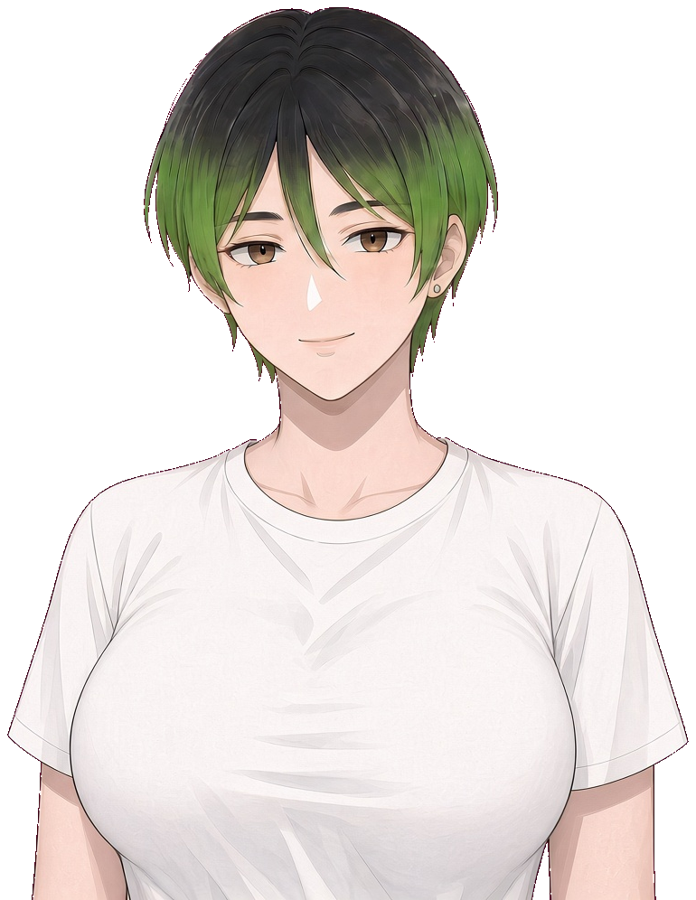
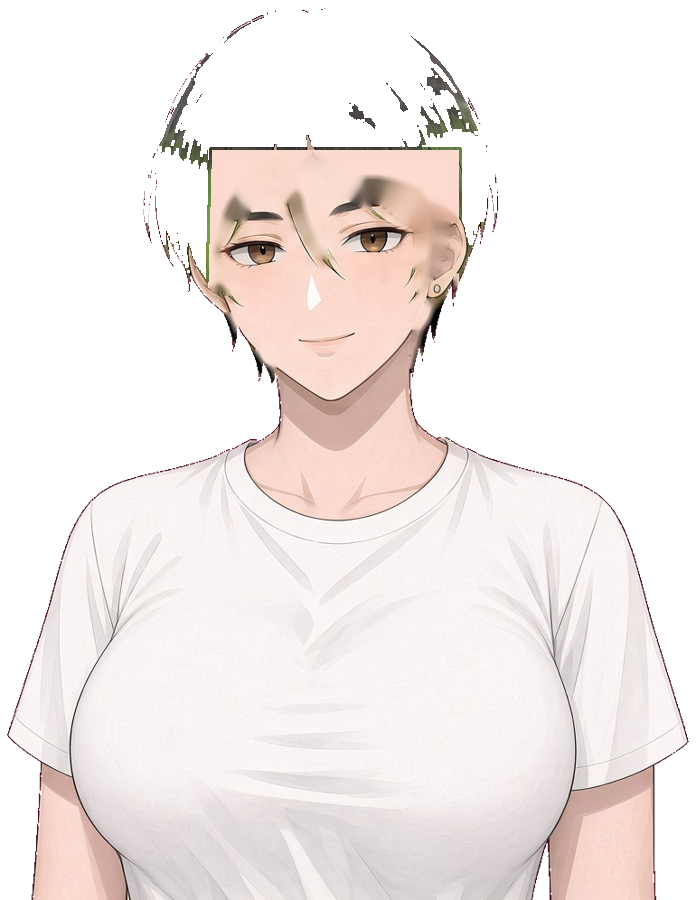
Himari live test v2: hair layers, 3-step blink, 3 mouth shapes

Changed region(s): [[0.181, 0.0, 0.7241, 0.4044], [0.3621, 0.3733, 0.3922, 0.4356]]

diff --git a/live2d-test/index.html b/live2d-test/index.html
@@ -1,71 +1,61 @@
 <!doctype html><html><head><meta charset="utf-8"><meta name="viewport" content="width=device-width,initial-scale=1,viewport-fit=cover">
-<meta name="robots" content="noindex"><title>Himari live test</title>
+<meta name="robots" content="noindex"><title>Himari live test v2</title>
 <style>html,body{margin:0;height:100%;background:linear-gradient(#2b2f3a,#151821);overflow:hidden;font-family:system-ui,sans-serif}
 #box{position:fixed;left:4%;right:4%;bottom:4%;background:rgba(10,12,20,.82);color:#f3eef0;border:1px solid #6b7a5a;border-radius:12px;padding:12px 16px;min-height:3.2em;font-size:17px}
 #box b{color:#9fd36b;display:block;font-size:14px;margin-bottom:4px}
 #ctl{position:fixed;top:12px;right:12px;display:flex;gap:8px}button{font-size:15px;padding:8px 14px;border-radius:8px;border:0;background:#6b9a3a;color:#fff}
-</style></head><body>
-<div id="ctl"><button id="talk">Talk</button><button id="still">Static</button></div>
+#ver{position:fixed;top:16px;left:12px;color:#8a93a6;font-size:12px}</style></head><body>
+<div id="ver">live test v2</div><div id="ctl"><button id="talk">Talk</button><button id="still">Static</button></div>
 <div id="box"><b>Himari</b><span id="txt"></span></div>
 <script src="pixi.min.js"></script>
 <script>
 (async()=>{
-const W=696,H=900, W8=await (await fetch('weights.json')).json();
+const W=696,H=900;const WT=await (await fetch('weights.json')).json(),AN=await (await fetch('anchors.json')).json();
 const app=new PIXI.Application({resizeTo:window,backgroundAlpha:0,antialias:true,resolution:Math.min(devicePixelRatio,2),autoDensity:true});
 document.body.prepend(app.view);
-const [tb,te,tm]=await Promise.all(['body.png','eyes_closed.png','mouth_open.png'].map(u=>PIXI.Assets.load(u)));
+const T={};for(const n of ['back','body','front','eyes_half','eyes_closed','mouth_small','mouth_wide'])T[n]=await PIXI.Assets.load(n+'.png');
 const root=new PIXI.Container();app.stage.addChild(root);
-const plane=new PIXI.SimplePlane(tb,W8.gx,W8.gy);root.addChild(plane);
-const eyes=new PIXI.Sprite(te),mouth=new PIXI.Sprite(tm);
-eyes.anchor.set(.5);mouth.anchor.set(.5);root.addChild(eyes,mouth);
-const EYE={x:200+te.width/2,y:200+te.height/2},MOU={x:287+tm.width/2,y:331+tm.height/2};
-eyes.alpha=0;mouth.alpha=0;
-const buf=plane.geometry.getBuffer('aVertexPosition'),base=Float32Array.from(buf.data);
+function mesh(tex,wkey){const m=new PIXI.SimplePlane(tex,WT.gx,WT.gy);const b=m.geometry.getBuffer('aVertexPosition');return{m,b,base:Float32Array.from(b.data),w:wkey?WT[wkey].flat():null,key:wkey}}
+const back=mesh(T.back,'back'),body=mesh(T.body,null),front=mesh(T.front,'front');
+const spr=(t,a)=>{const s=new PIXI.Sprite(t);s.anchor.set(.5);s.visible=false;s.home={x:a[0]+t.width/2,y:a[1]+t.height/2};return s};
+const eh=spr(T.eyes_half,AN.eyes),ec=spr(T.eyes_closed,AN.eyes),ms=spr(T.mouth_small,AN.mouth),mw=spr(T.mouth_wide,AN.mouth);
+root.addChild(back.m,body.m,eh,ec,ms,mw,front.m);
 const sm=(a,b,x)=>{x=Math.min(1,Math.max(0,(x-a)/(b-a)));return x*x*(3-2*x)};
-let still=false;
-function deform(x,y,t,hw){
+let still=false;const TAU=Math.PI*2;
+function deform(x,y,t,w,layer){
   if(still)return[x,y,0];
-  const br=Math.sin(t*2*Math.PI/3.8);
-  const head=1-sm(395,475,y);
-  // breathing: torso stretches up from the bottom, chest widens slightly
-  let dy=-(H-Math.max(y,430))*0.0055*br - 0;
-  let dx=(x-348)*0.006*br*Math.exp(-(((y-660)/140)**2));
-  // head tilt + nod about the neck
-  const th=(0.014*Math.sin(t*2*Math.PI/6.1)+0.006*Math.sin(t*2*Math.PI/2.9+1))*head;
+  const br=Math.sin(t*TAU/3.8),head=1-sm(395,475,y);
+  let dy=-(H-Math.max(y,430))*0.0055*br, dx=(x-348)*0.006*br*Math.exp(-(((y-660)/140)**2));
+  const th=(0.013*Math.sin(t*TAU/6.1)+0.005*Math.sin(t*TAU/2.9+1))*head;
   const px=345,py=450,rx=x-px,ry=y-py;
   dx+=rx*Math.cos(th)-ry*Math.sin(th)-rx; dy+=rx*Math.sin(th)+ry*Math.cos(th)-ry;
-  dy+=head*1.2*Math.sin(t*2*Math.PI/6.1+.7);
-  // hair sway: tips move more, damped over the face
-  const face=sm(0,1,1-Math.max(Math.abs(x-318)/110,Math.abs(y-285)/85));
-  const tip=sm(120,360,y);
-  dx+=hw*(1-face*.85)*tip*(2.6*Math.sin(t*2*Math.PI/2.6-y*.012)+1.1*Math.sin(t*2*Math.PI/1.7+x*.02));
+  dy+=head*1.1*Math.sin(t*TAU/6.1+.7);
+  // head-turn illusion: face/front hair slide a touch more than back hair (parallax)
+  const turn=1.3*Math.sin(t*TAU/8.3+2)*head*sm(130,230,y);
+  dx+=turn*(layer==='front'?1.25:layer==='back'?-0.35:1);
+  if(w){ if(layer==='front') dx+=w*(1.7*Math.sin(t*TAU/2.7-y*.01)+0.7*Math.sin(t*TAU/1.9+x*.02));
+         else dx+=w*(2.4*Math.sin(t*TAU/2.7-y*.01-0.55)+0.8*Math.sin(t*TAU/1.9+x*.02-0.5)); }
   return[x+dx,y+dy,th];
 }
-function weight(i,j){return W8.hair[j][i]}
-let blinkAt=1.2,blinkT=-1;
-let talking=false,mouthT=0;
+function upd(M,t){const d=M.b.data,b=M.base;for(let i=0,k=0;k<d.length;i++,k+=2){const p=deform(b[k],b[k+1],t,M.w?M.w[i]:0,M.key||'body');d[k]=p[0];d[k+1]=p[1]}M.b.update()}
 function layout(){const s=Math.min(app.screen.height/H*1.02,app.screen.width/W*1.15);root.scale.set(s);root.x=(app.screen.width-W*s)/2;root.y=app.screen.height-H*s+H*s*.02}
-window.addEventListener('resize',layout);layout();
-const t0=performance.now();
-app.ticker.add(()=>{
-  const t=(performance.now()-t0)/1000;
-  const d=buf.data;
-  for(let j=0,k=0;j<W8.gy;j++)for(let i=0;i<W8.gx;i++,k+=2){const p=deform(base[k],base[k+1],t,weight(i,j));d[k]=p[0];d[k+1]=p[1];}
-  buf.update();
-  for(const [s,a] of [[eyes,EYE],[mouth,MOU]]){const p=deform(a.x,a.y,t,0);s.position.set(p[0],p[1]);s.rotation=p[2];}
-  // blink: quick close, short hold, slower open; occasional double blink
-  if(t>blinkAt&&blinkT<0){blinkT=t}
-  if(blinkT>=0){const u=t-blinkT;eyes.alpha=u<.12?1:0;
-    if(u>.12){blinkT=-1;blinkAt=t+(Math.random()<.18?.25:2.2+Math.random()*3.5)}}
-  if(talking&&t>mouthT){mouth.alpha=mouth.alpha>.5?(Math.random()<.4?.55:0):1;mouthT=t+.07+Math.random()*.08}
-  if(!talking)mouth.alpha=Math.max(0,mouth.alpha-.25);
+addEventListener('resize',layout);layout();
+const Q=new URLSearchParams(location.search),FZ=Q.has('freeze')?+Q.get('freeze'):null;
+let blinkAt=1.0,blinkT=-1,mouth=0;const t0=performance.now();
+app.ticker.add(()=>{const t=FZ!==null?FZ:(performance.now()-t0)/1000;
+  upd(back,t);upd(body,t);upd(front,t);
+  for(const s of [eh,ec,ms,mw]){const p=deform(s.home.x,s.home.y,t,0,'body');s.position.set(p[0],p[1]);s.rotation=p[2];}
+  if(FZ===null&&t>blinkAt&&blinkT<0)blinkT=t;
+  let e=0;if(blinkT>=0){const u=t-blinkT;e=u<.035?1:u<.105?2:u<.14?1:0;if(u>=.14){blinkT=-1;blinkAt=t+(Math.random()<.18?.22:2.2+Math.random()*3.5)}}
+  if(Q.has('eye'))e=+Q.get('eye');if(Q.has('mouth'))mouth=+Q.get('mouth');
+  eh.visible=e===1;ec.visible=e===2;ms.visible=mouth===1;mw.visible=mouth===2;
 });
 const lines=["Oh — you're home. I saved you some rice, it's still warm.","Don't look at me like that. I'm just tired, okay?","Do you ever think about leaving this town? Just… going?"];let li=0,typing=null;
-function say(){clearInterval(typing);const s=lines[li++%lines.length];let n=0;const el=document.getElementById('txt');el.textContent='';talking=true;
-  typing=setInterval(()=>{n++;el.textContent=s.slice(0,n);const c=s[n-1];
-    talking=!/[.,!?…—]/.test(c||'');if(n>=s.length){clearInterval(typing);talking=false}},45)}
+function shape(c,prev){if(!c||/[\s.,!?…—'"]/.test(c))return 0;if(/[aeiouAEIOU]/.test(c))return /[aoAO]/.test(c)?2:(prev===2?1:2);return Math.random()<.55?1:0}
+function say(){clearInterval(typing);const s=lines[li++%lines.length];let n=0;const el=document.getElementById('txt');el.textContent='';
+  typing=setInterval(()=>{n++;el.textContent=s.slice(0,n);mouth=shape(s[n-1],mouth);if(n>=s.length){clearInterval(typing);setTimeout(()=>mouth=0,60)}},48)}
 document.getElementById('talk').onclick=say;
 document.getElementById('still').onclick=e=>{still=!still;e.target.textContent=still?'Live':'Static'};
-setTimeout(say,1500);
+if(!Q.has('freeze'))setTimeout(say,1400);
 })();
 </script></body></html>

diff --git a/live2d-test/test.html b/live2d-test/test.html
@@ -1,71 +1,61 @@
 <!doctype html><html><head><meta charset="utf-8"><meta name="viewport" content="width=device-width,initial-scale=1,viewport-fit=cover">
-<meta name="robots" content="noindex"><title>Himari live test</title>
+<meta name="robots" content="noindex"><title>Himari live test v2</title>
 <style>html,body{margin:0;height:100%;background:linear-gradient(#2b2f3a,#151821);overflow:hidden;font-family:system-ui,sans-serif}
 #box{position:fixed;left:4%;right:4%;bottom:4%;background:rgba(10,12,20,.82);color:#f3eef0;border:1px solid #6b7a5a;border-radius:12px;padding:12px 16px;min-height:3.2em;font-size:17px}
 #box b{color:#9fd36b;display:block;font-size:14px;margin-bottom:4px}
 #ctl{position:fixed;top:12px;right:12px;display:flex;gap:8px}button{font-size:15px;padding:8px 14px;border-radius:8px;border:0;background:#6b9a3a;color:#fff}
-</style></head><body>
-<div id="ctl"><button id="talk">Talk</button><button id="still">Static</button></div>
+#ver{position:fixed;top:16px;left:12px;color:#8a93a6;font-size:12px}</style></head><body>
+<div id="ver">live test v2</div><div id="ctl"><button id="talk">Talk</button><button id="still">Static</button></div>
 <div id="box"><b>Himari</b><span id="txt"></span></div>
 <script src="pixi.min.js"></script>
 <script>
 (async()=>{
-const W=696,H=900, W8=await (await fetch('weights.json')).json();
+const W=696,H=900;const WT=await (await fetch('weights.json')).json(),AN=await (await fetch('anchors.json')).json();
 const app=new PIXI.Application({resizeTo:window,backgroundAlpha:0,antialias:true,resolution:Math.min(devicePixelRatio,2),autoDensity:true});
 document.body.prepend(app.view);
-const [tb,te,tm]=await Promise.all(['body.png','eyes_closed.png','mouth_open.png'].map(u=>PIXI.Assets.load(u)));
+const T={};for(const n of ['back','body','front','eyes_half','eyes_closed','mouth_small','mouth_wide'])T[n]=await PIXI.Assets.load(n+'.png');
 const root=new PIXI.Container();app.stage.addChild(root);
-const plane=new PIXI.SimplePlane(tb,W8.gx,W8.gy);root.addChild(plane);
-const eyes=new PIXI.Sprite(te),mouth=new PIXI.Sprite(tm);
-eyes.anchor.set(.5);mouth.anchor.set(.5);root.addChild(eyes,mouth);
-const EYE={x:200+te.width/2,y:200+te.height/2},MOU={x:287+tm.width/2,y:331+tm.height/2};
-eyes.alpha=0;mouth.alpha=0;
-const buf=plane.geometry.getBuffer('aVertexPosition'),base=Float32Array.from(buf.data);
+function mesh(tex,wkey){const m=new PIXI.SimplePlane(tex,WT.gx,WT.gy);const b=m.geometry.getBuffer('aVertexPosition');return{m,b,base:Float32Array.from(b.data),w:wkey?WT[wkey].flat():null,key:wkey}}
+const back=mesh(T.back,'back'),body=mesh(T.body,null),front=mesh(T.front,'front');
+const spr=(t,a)=>{const s=new PIXI.Sprite(t);s.anchor.set(.5);s.visible=false;s.home={x:a[0]+t.width/2,y:a[1]+t.height/2};return s};
+const eh=spr(T.eyes_half,AN.eyes),ec=spr(T.eyes_closed,AN.eyes),ms=spr(T.mouth_small,AN.mouth),mw=spr(T.mouth_wide,AN.mouth);
+root.addChild(back.m,body.m,eh,ec,ms,mw,front.m);
 const sm=(a,b,x)=>{x=Math.min(1,Math.max(0,(x-a)/(b-a)));return x*x*(3-2*x)};
-let still=false;
-function deform(x,y,t,hw){
+let still=false;const TAU=Math.PI*2;
+function deform(x,y,t,w,layer){
   if(still)return[x,y,0];
-  const br=Math.sin(t*2*Math.PI/3.8);
-  const head=1-sm(395,475,y);
-  // breathing: torso stretches up from the bottom, chest widens slightly
-  let dy=-(H-Math.max(y,430))*0.0055*br - 0;
-  let dx=(x-348)*0.006*br*Math.exp(-(((y-660)/140)**2));
-  // head tilt + nod about the neck
-  const th=(0.014*Math.sin(t*2*Math.PI/6.1)+0.006*Math.sin(t*2*Math.PI/2.9+1))*head;
+  const br=Math.sin(t*TAU/3.8),head=1-sm(395,475,y);
+  let dy=-(H-Math.max(y,430))*0.0055*br, dx=(x-348)*0.006*br*Math.exp(-(((y-660)/140)**2));
+  const th=(0.013*Math.sin(t*TAU/6.1)+0.005*Math.sin(t*TAU/2.9+1))*head;
   const px=345,py=450,rx=x-px,ry=y-py;
   dx+=rx*Math.cos(th)-ry*Math.sin(th)-rx; dy+=rx*Math.sin(th)+ry*Math.cos(th)-ry;
-  dy+=head*1.2*Math.sin(t*2*Math.PI/6.1+.7);
-  // hair sway: tips move more, damped over the face
-  const face=sm(0,1,1-Math.max(Math.abs(x-318)/110,Math.abs(y-285)/85));
-  const tip=sm(120,360,y);
-  dx+=hw*(1-face*.85)*tip*(2.6*Math.sin(t*2*Math.PI/2.6-y*.012)+1.1*Math.sin(t*2*Math.PI/1.7+x*.02));
+  dy+=head*1.1*Math.sin(t*TAU/6.1+.7);
+  // head-turn illusion: face/front hair slide a touch more than back hair (parallax)
+  const turn=1.3*Math.sin(t*TAU/8.3+2)*head*sm(130,230,y);
+  dx+=turn*(layer==='front'?1.25:layer==='back'?-0.35:1);
+  if(w){ if(layer==='front') dx+=w*(1.7*Math.sin(t*TAU/2.7-y*.01)+0.7*Math.sin(t*TAU/1.9+x*.02));
+         else dx+=w*(2.4*Math.sin(t*TAU/2.7-y*.01-0.55)+0.8*Math.sin(t*TAU/1.9+x*.02-0.5)); }
   return[x+dx,y+dy,th];
 }
-function weight(i,j){return W8.hair[j][i]}
-let blinkAt=1.2,blinkT=-1;
-let talking=false,mouthT=0;
+function upd(M,t){const d=M.b.data,b=M.base;for(let i=0,k=0;k<d.length;i++,k+=2){const p=deform(b[k],b[k+1],t,M.w?M.w[i]:0,M.key||'body');d[k]=p[0];d[k+1]=p[1]}M.b.update()}
 function layout(){const s=Math.min(app.screen.height/H*1.02,app.screen.width/W*1.15);root.scale.set(s);root.x=(app.screen.width-W*s)/2;root.y=app.screen.height-H*s+H*s*.02}
-window.addEventListener('resize',layout);layout();
-const t0=performance.now();
-app.ticker.add(()=>{
-  const t=(performance.now()-t0)/1000;
-  const d=buf.data;
-  for(let j=0,k=0;j<W8.gy;j++)for(let i=0;i<W8.gx;i++,k+=2){const p=deform(base[k],base[k+1],t,weight(i,j));d[k]=p[0];d[k+1]=p[1];}
-  buf.update();
-  for(const [s,a] of [[eyes,EYE],[mouth,MOU]]){const p=deform(a.x,a.y,t,0);s.position.set(p[0],p[1]);s.rotation=p[2];}
-  // blink: quick close, short hold, slower open; occasional double blink
-  if(t>blinkAt&&blinkT<0){blinkT=t}
-  if(blinkT>=0){const u=t-blinkT;eyes.alpha=u<.12?1:0;
-    if(u>.12){blinkT=-1;blinkAt=t+(Math.random()<.18?.25:2.2+Math.random()*3.5)}}
-  if(talking&&t>mouthT){mouth.alpha=mouth.alpha>.5?(Math.random()<.4?.55:0):1;mouthT=t+.07+Math.random()*.08}
-  if(!talking)mouth.alpha=Math.max(0,mouth.alpha-.25);
+addEventListener('resize',layout);layout();
+const Q=new URLSearchParams(location.search),FZ=Q.has('freeze')?+Q.get('freeze'):null;
+let blinkAt=1.0,blinkT=-1,mouth=0;const t0=performance.now();
+app.ticker.add(()=>{const t=FZ!==null?FZ:(performance.now()-t0)/1000;
+  upd(back,t);upd(body,t);upd(front,t);
+  for(const s of [eh,ec,ms,mw]){const p=deform(s.home.x,s.home.y,t,0,'body');s.position.set(p[0],p[1]);s.rotation=p[2];}
+  if(FZ===null&&t>blinkAt&&blinkT<0)blinkT=t;
+  let e=0;if(blinkT>=0){const u=t-blinkT;e=u<.035?1:u<.105?2:u<.14?1:0;if(u>=.14){blinkT=-1;blinkAt=t+(Math.random()<.18?.22:2.2+Math.random()*3.5)}}
+  if(Q.has('eye'))e=+Q.get('eye');if(Q.has('mouth'))mouth=+Q.get('mouth');
+  eh.visible=e===1;ec.visible=e===2;ms.visible=mouth===1;mw.visible=mouth===2;
 });
 const lines=["Oh — you're home. I saved you some rice, it's still warm.","Don't look at me like that. I'm just tired, okay?","Do you ever think about leaving this town? Just… going?"];let li=0,typing=null;
-function say(){clearInterval(typing);const s=lines[li++%lines.length];let n=0;const el=document.getElementById('txt');el.textContent='';talking=true;
-  typing=setInterval(()=>{n++;el.textContent=s.slice(0,n);const c=s[n-1];
-    talking=!/[.,!?…—]/.test(c||'');if(n>=s.length){clearInterval(typing);talking=false}},45)}
+function shape(c,prev){if(!c||/[\s.,!?…—'"]/.test(c))return 0;if(/[aeiouAEIOU]/.test(c))return /[aoAO]/.test(c)?2:(prev===2?1:2);return Math.random()<.55?1:0}
+function say(){clearInterval(typing);const s=lines[li++%lines.length];let n=0;const el=document.getElementById('txt');el.textContent='';
+  typing=setInterval(()=>{n++;el.textContent=s.slice(0,n);mouth=shape(s[n-1],mouth);if(n>=s.length){clearInterval(typing);setTimeout(()=>mouth=0,60)}},48)}
 document.getElementById('talk').onclick=say;
 document.getElementById('still').onclick=e=>{still=!still;e.target.textContent=still?'Live':'Static'};
-setTimeout(say,1500);
+if(!Q.has('freeze'))setTimeout(say,1400);
 })();
 </script></body></html>
